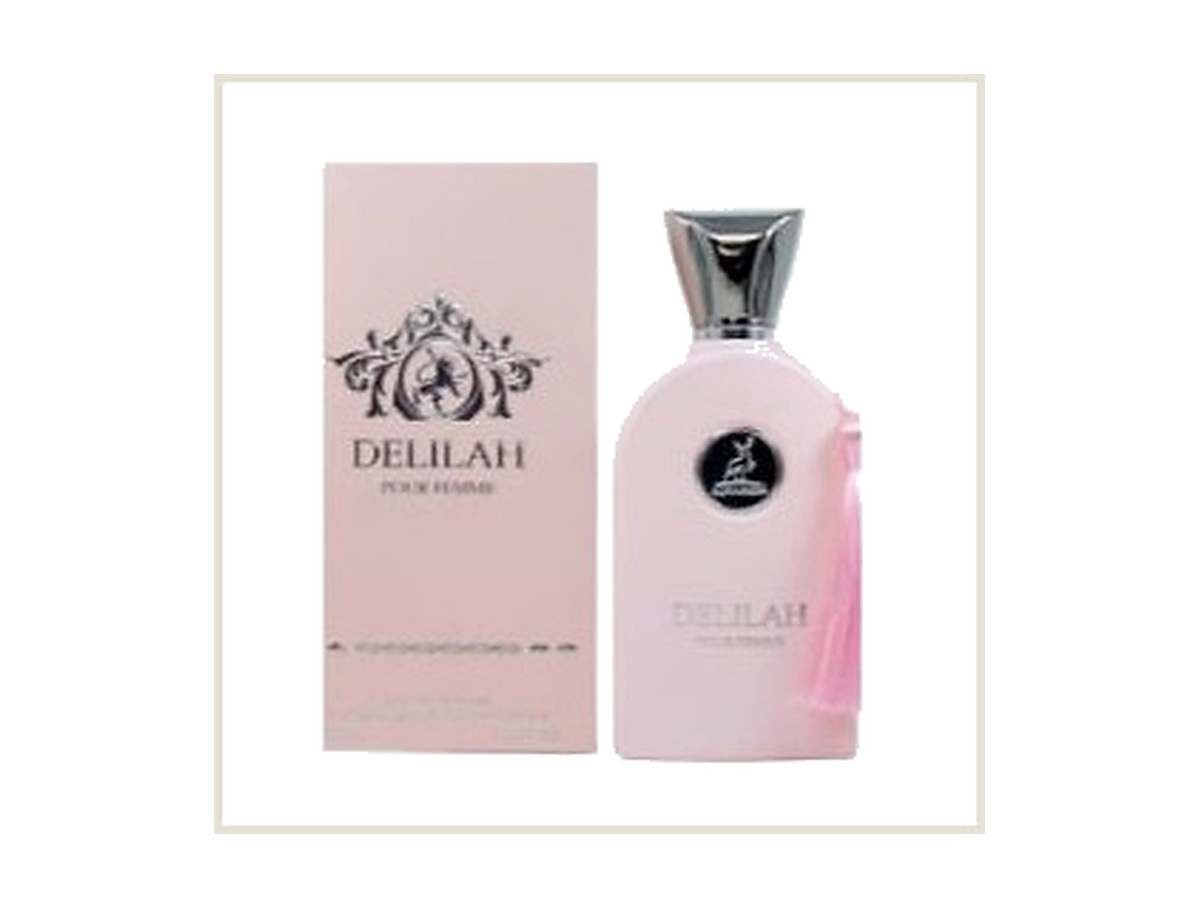
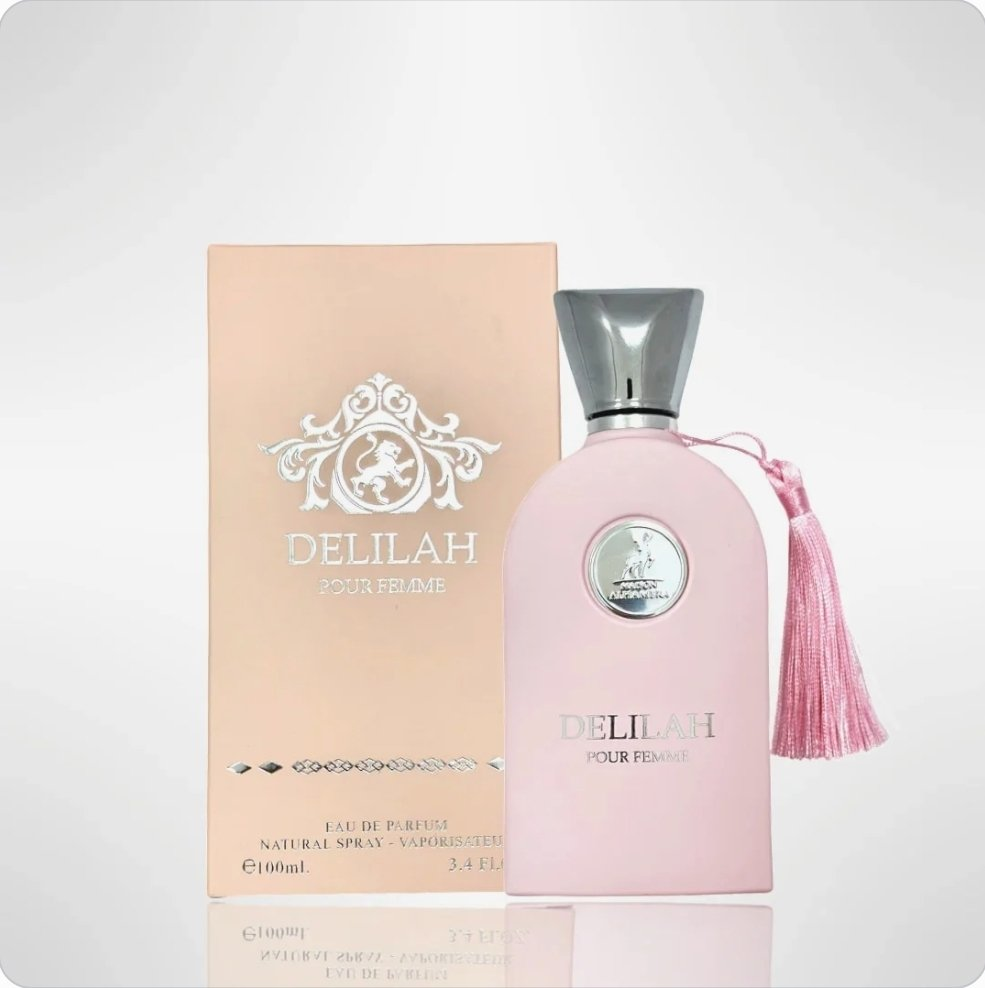
Replace Maison Alhambra Delilah photos with Boss's new shots

diff --git a/index.html b/index.html
@@ -699,7 +699,7 @@
         { name:'Lattafa Yara Elixir Perfume for Women', niche:'Lattafa · Women · 3.4 oz EDP', direction:'Lush berries, vanilla and warm amber', description:'Juicy fruit and soft florals melt into creamy vanilla and warm amber. Sweet, playful and plush without losing its polished finish.', category:'sweet', images:[{src:'assets/lattafa-yara-elixir-1.jpg', alt:'Lattafa Yara Elixir bottle on a clean white background'},{src:'assets/lattafa-yara-elixir-2.jpg', alt:'Lattafa Yara Elixir bottle in a pink fragrance composition'},{src:'assets/lattafa-yara-elixir-3.jpg', alt:'Lattafa Yara Elixir bottle and box with berries, vanilla and caramel notes'},{src:'assets/lattafa-yara-elixir-4.jpg', alt:'Lattafa Yara Elixir bottle with berries, vanilla and caramel notes'}], price:39, decantPrice:10, originalPrice:44, featured:8, paymentLink:'https://buy.stripe.com/7sYfZjfDj0ZC3pMc0Pf7i1b' },
         { name:'Rasasi Hawas Fire Cologne for Men', niche:'Rasasi · Men · 3.38 oz EDP', direction:'Red fruits, aromatic freshness and woods', description:'A vibrant mix of juicy fruit and crisp aromatics gains depth from spice and polished woods. Fresh at first spray, then warmer and more intense.', category:'fresh', images:[{src:'assets/product-rasasi-hawas-fire.jpg', alt:'Rasasi Hawas Fire bottle and box — clean packshot'},{src:'assets/gallery-rasasi-hawas-fire-1.jpg', alt:'Rasasi Hawas Fire Cologne for Men — customer photo 1'},{src:'assets/gallery-rasasi-hawas-fire-2.jpg', alt:'Rasasi Hawas Fire Cologne for Men — customer photo 2'}], price:54, decantPrice:14, originalPrice:75, featured:9 , paymentLink:'https://buy.stripe.com/5kQfZj3UB5fS9Oa5Crf7i14'},
         { name:'Armaf Odyssey Mega Cologne for Men', niche:'Armaf · Men · 3.4 oz EDP', direction:'Citrus, ginger and aromatic woods', description:'Zesty citrus and ginger create a brisk opening before aromatic herbs and clean woods take over. Modern, bright and made for everyday momentum.', category:'fresh', images:[{src:'assets/product-armaf-odyssey-mega.jpg', alt:'Armaf Odyssey Mega bottle and yellow box — clean packshot'}], price:31, decantPrice:8, originalPrice:38, featured:10 , paymentLink:'https://buy.stripe.com/eVqdRb0Ip7o0e4q7Kzf7i0Z'},
-        { name:'Lattafa Maison Alhambra Delilah Perfume for Women', niche:'Maison Alhambra · Women · 3.4 oz EDP', direction:'Rose, tart fruit and soft vanilla musk', description:'Tart fruit brightens a romantic rose heart, while vanilla and musk soften the finish. Airy, graceful and quietly sweet.', category:'fresh', images:[{src:'assets/product-maison-alhambra-delilah.jpg', alt:'Maison Alhambra Delilah bottle and pink box — clean packshot'}], price:28, decantPrice:7, originalPrice:34, featured:11 , paymentLink:'https://buy.stripe.com/dRmeVf8aR8s43pM8ODf7i1c'},
+        { name:'Lattafa Maison Alhambra Delilah Perfume for Women', niche:'Maison Alhambra · Women · 3.4 oz EDP', direction:'Rose, tart fruit and soft vanilla musk', description:'Tart fruit brightens a romantic rose heart, while vanilla and musk soften the finish. Airy, graceful and quietly sweet.', category:'fresh', images:[{src:'assets/product-maison-alhambra-delilah.jpg', alt:'Maison Alhambra Delilah pink bottle and box on a clean white background'},{src:'assets/product-maison-alhambra-delilah-2.jpg', alt:'Maison Alhambra Delilah pink bottle and box, alternate angle'}], price:28, decantPrice:7, originalPrice:34, featured:11 , paymentLink:'https://buy.stripe.com/dRmeVf8aR8s43pM8ODf7i1c'},
         { name:'Barakkat Satin Oud Perfume for Unisex', niche:'Barakkat · Unisex · 3.4 oz EDP', direction:'Velvety rose, oud and vanilla amber', description:'Velvety rose meets dark oud and a warm vanilla-amber base. Opulent and smooth, with the kind of depth that suits evenings and special occasions.', category:'woody', images:[{src:'assets/product-barakkat-satin-oud.jpg', alt:'Barakkat Satin Oud bottle in a styled petal and oud flat-lay'},{src:'assets/product-barakkat-satin-oud-2.jpg', alt:'Barakkat Satin Oud bottle with floating ingredients composition'},{src:'assets/product-barakkat-satin-oud-3.jpg', alt:'Barakkat Satin Oud bottle top-down with cap off'},{src:'assets/product-barakkat-satin-oud-4.jpg', alt:'Barakkat Satin Oud bottle on warm stones with oud wood'}], price:22, decantPrice:6, originalPrice:27, featured:12 , paymentLink:'https://buy.stripe.com/7sY14pfDjeQs7G2c0Pf7i1f'},
         { name:'Lattafa Angham Perfume for Unisex', niche:'Lattafa · Unisex · 3.4 oz EDP', direction:'Spiced vanilla, praline and tonka', description:'A warm gourmand profile built around sweet spice, creamy vanilla and nutty praline. Cozy and expressive, with a smooth tonka-rich finish.', category:'sweet', images:[{src:'assets/product-lattafa-angham.jpg', alt:'Lattafa Angham bottle and box on a clean white background'},{src:'assets/product-lattafa-angham-2.jpg', alt:'Lattafa Angham bottle on a clean white background'},{src:'assets/product-lattafa-angham-3.jpg', alt:'Lattafa Angham bottle in warm sunlight'}], price:34, decantPrice:9, originalPrice:40, featured:13 , paymentLink:'https://buy.stripe.com/6oUfZjgHncIk5xUgh5f7i1e'},
         { name:'Lattafa Her Confession Perfume for Women', niche:'Lattafa · Women · 3.4 oz EDP', direction:'White florals, spice and creamy vanilla', description:'Luminous white florals are wrapped in gentle spice, creamy vanilla and soft woods. Elegant and sensual, with warmth that lingers close to the skin.', category:'amber', images:[{src:'assets/product-lattafa-her-confession.jpg', alt:'Lattafa Her Confession bust bottle in a styled classical composition'},{src:'assets/product-lattafa-her-confession-2.jpg', alt:'Lattafa Her Confession bust bottle on a clean white background'}], price:42, decantPrice:11, originalPrice:48, featured:14 , paymentLink:'https://buy.stripe.com/28E4gB4YF37Ke4q1mbf7i0L'},
